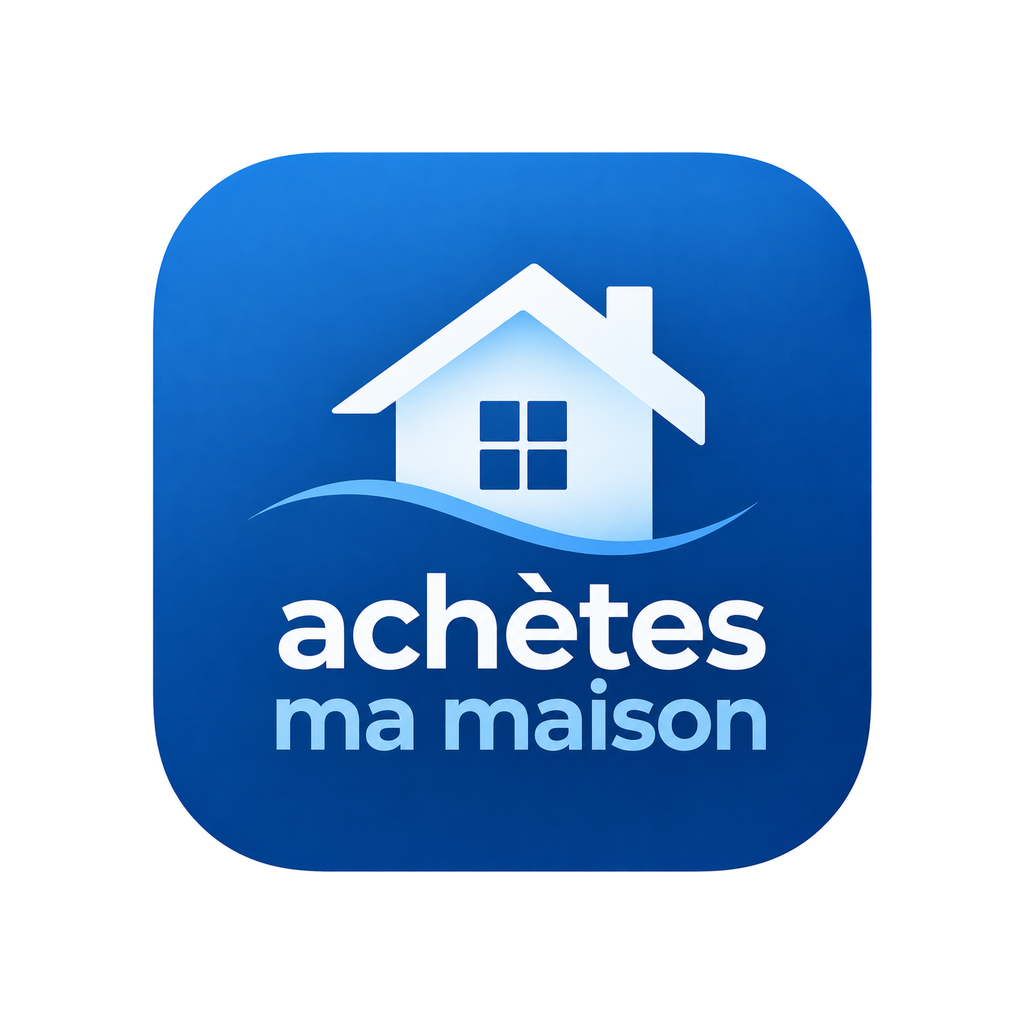
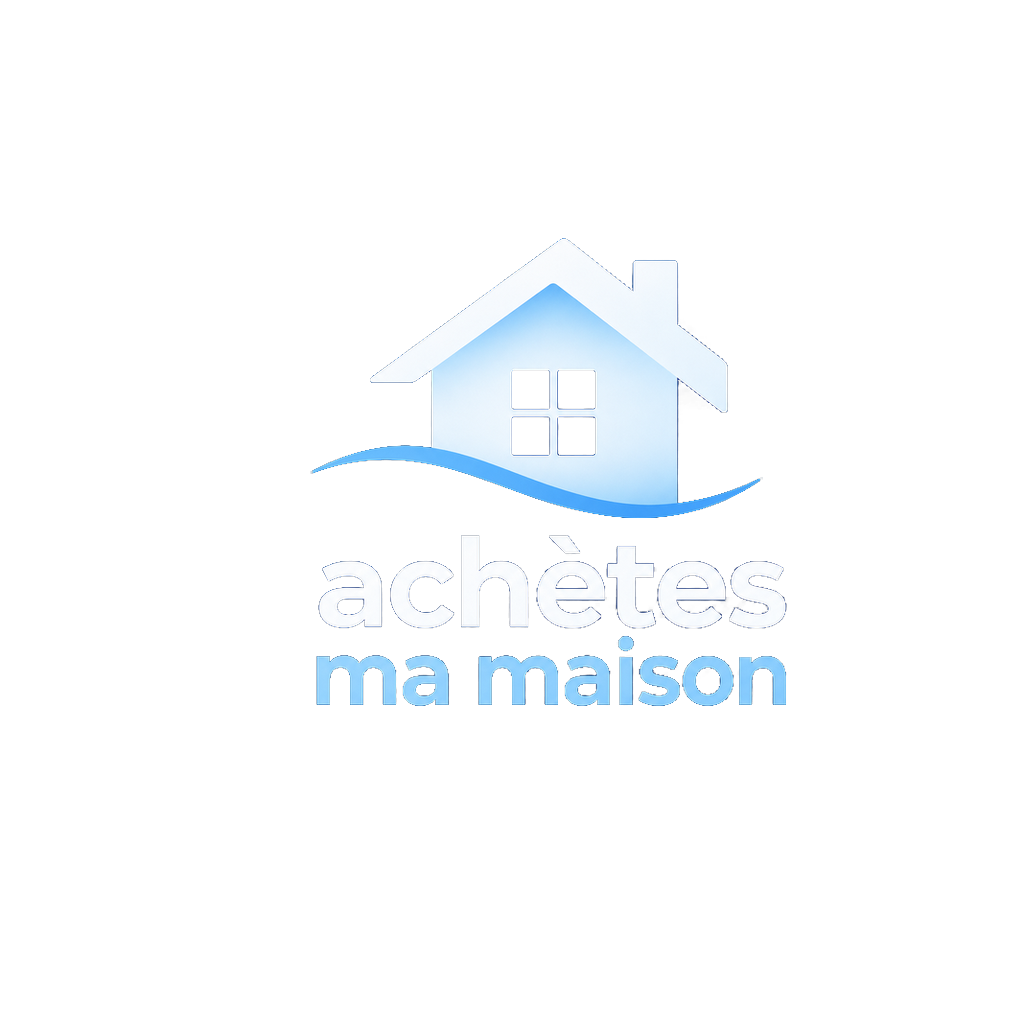
## Icône Android rognée — corrigée - Cause : l'icône Android utilisait toute la tuile bleue ; or Android applique un masque rond (ou arrondi) qui ne garde que les 66 % centraux → la maison et le texte étaient coupés. - Correctif : nouvelle icône « adaptative » avec la maison, la vague et le texte « 
Note :
- Une fois l'app déployée en production, vous pouvez générer les builds iOS et Android, puis publier sur l'App Store / Play Store.
- Build iOS : un compte développeur Apple est nécessaire ; après connexion, vous générez le build, l'envoyez sur TestFlight et testez sur un iPhone réel.
- Build Android : nous fournissons les fichiers .APK et .AAB pour tester sur un appareil Android réel.
- L'app déployée est aussi accessible dans Expo Go via le QR code du panneau de déploiement.
- Après toute modification du code via l'agent, redéployez et régénérez les builds pour refléter les changements (le redéploiement est sans coût supplémentaire).

Next Action Items:
- **Écran De Démarrage**: Alignez l'écran de lancement (splash) sur la nouvelle icône, avec le logo centré sur fond bleu et une transition douce
- **Marquer Comme Vendu**: Laissez le vendeur déclarer la vente conclue avec le prix final pour archiver le bien et améliorer les estimations
- **Vignette Sur L'Accueil**: Affichez la photo de couverture sur la carte de chaque bien de la page d'accueil
- **Version Web De L'App**: Servez l'app complète dans le navigateur à l'adresse estimate-home.emergent.host pour l'utiliser sur ordinateur

Emergent-Commit-Key: cf0adb44d4797ef307e828c3d696ae63c5da8dd29787a20644354454b0fe5511

diff --git a/memory/PRD.md b/memory/PRD.md
@@ -76,6 +76,7 @@ App mobile (Expo + FastAPI + MongoDB) accompagnant un vendeur de l'estimation à
 - [x] **Copropriété dans le rapport PDF** : section « Copropriété & charges » (`report.condo_section`, appartements) — charges mensuelles, annuelles et €/m²/mois, étage/ascenseur, parking, gardien, mode de chauffage, note « déclaratif, repère 2–3,5 €/m²/mois ».
 - [x] **Pièces copropriété dans la checklist** (`dossier.ITEMS`) : `carnet_entretien` (obligatoire, loi ALUR), `charges_copro` (obligatoire, raison reprenant les charges déclarées), `dtg` (recommandé si immeuble > 15 ans) — en plus de carrez / règlement / PV AG / pré-état daté / fiche synthétique déjà présents.
 - [x] **Enregistrer / partager les photos retouchées** (Pack premium) : `src/photoExport.ts` (`usePhotoExport`, `expo-media-library` chargé paresseusement — pas de module web ; téléchargement via `expo-file-system` puis `saveToLibraryAsync` ; permission d'écriture demandée au tap, `canAskAgain` respecté, message + bouton « Ouvrir les réglages » si bloqué, repli suggéré « Partager » ; partage via `expo-sharing`). Écran Photos : boutons « Enregistrer dans la galerie » (web : « Télécharger », ouvre le fichier) + « Partager » sous chaque photo retouchée (version affichée exportée ; vue « Retouchée » par défaut), bouton « Enregistrer les N photos retouchées » dès 2 retouches ; verrouillés (icône cadenas → écran Pack) si pack non débloqué. app.json : `NSPhotoLibraryAddUsageDescription`, plugin `expo-media-library` (`granularPermissions: []`, pas de lecture), `WRITE_EXTERNAL_STORAGE` débloqué (Android ≤ 12), `microphonePermission: false` sur image-picker (RECORD_AUDIO retiré). À valider en build natif (Expo Go : la galerie fonctionne, l'app publiée doit être rebuildée).
+- [x] **Icône Android rognée (29/09)** : l'ancien `adaptive-icon.png` contenait la tuile bleue entière (152→872 px, 70 %) donc coupée par le masque rond (zone sûre Android = cercle 66 %). Nouveau premier plan généré par script PIL : maison + vague + texte extraits sur fond transparent (fond `#0B3B8F` fourni par `backgroundColor`), placés dans le cercle r ≤ 335 px (0 pixel opaque hors zone sûre, vérifié iteration_21) ; ajout `adaptive-icon-mono.png` (icône thématique Android 13) via `monochromeImage`. Original conservé dans /tmp/adaptive-icon.orig.png (non versionné). Nécessite un nouveau build Android.
 - [x] **Étape en cours sur les cartes de l'accueil** : `PropertyCard` — frise 1 Estimation / 2 Mise en vente / 3 Vendu (dots ✓ / courant / à venir) déduite des next-steps serveur (`stageOf` : prix cible non fixé → Estimation ; dossier incomplet → Mise en vente ; sinon Vendu) + bouton « Étape n/3 · X → Y » avec l'action suivante (fixer le prix / caractéristiques, photos → annonce → dossier, export notaire). Valeur centrale en gros + fourchette en petit sur la carte. Correctif associé : `welcome` n'étant plus protégé, sign-in / sign-up font `router.replace("/")` après connexion (sinon l'utilisateur restait sur /welcome).
 - [x] **Parcours en 3 étapes (29/09)** : `/welcome` réécrit — stepper 1 Estimation / 2 Mise en vente / 3 Vendu, chaque slide est tappable et passe à la suivante (dernière → /sign-up ou / si connecté), `getItemLayout` pour scrollToIndex web ; `welcome` sorti du `Stack.Protected` (accessible connecté, CTA « Accéder à mes biens ») + bouton « Revoir la présentation (3 étapes) » dans Mon compte. Fiche du bien : valeur centrale mise en avant (hero 44 px, fourchette en petit ; `FinalEstimateCard` inversée ; ligne « Valeur centrale » du calcul en bleu sur fond `brandTertiary`, 22 px, testID `estimation-central-recap`) ; en-têtes `step-1/2/3-header` ; la section Mise en vente commence par `TargetPriceCard` (titre « Votre prix de vente », rappel de l'estimation valeur + fourchette via prop `estimation`), puis photos / annonce / visites / pack ; Vendu = dossier de vente. Testé iteration_20 (tout passe).
 - [x] **Bug Android « Unsupported FormDataPart implementation » (récidive, 29/09)** : cause racine = Expo ≥ 54 remplace le `fetch` global natif par expo/fetch (WinterCG) dont `convertFormData` refuse les parts `{ uri }` de React Native. Correctif : helper `multipart()` dans `api.ts` — natif = `XMLHttpRequest` (RN, supporte `{uri}` + progression), web = `fetch` + Blob — utilisé par uploadPhoto, uploadDocument, sendFeedback. Nécessite un nouveau build (≥ 109).
